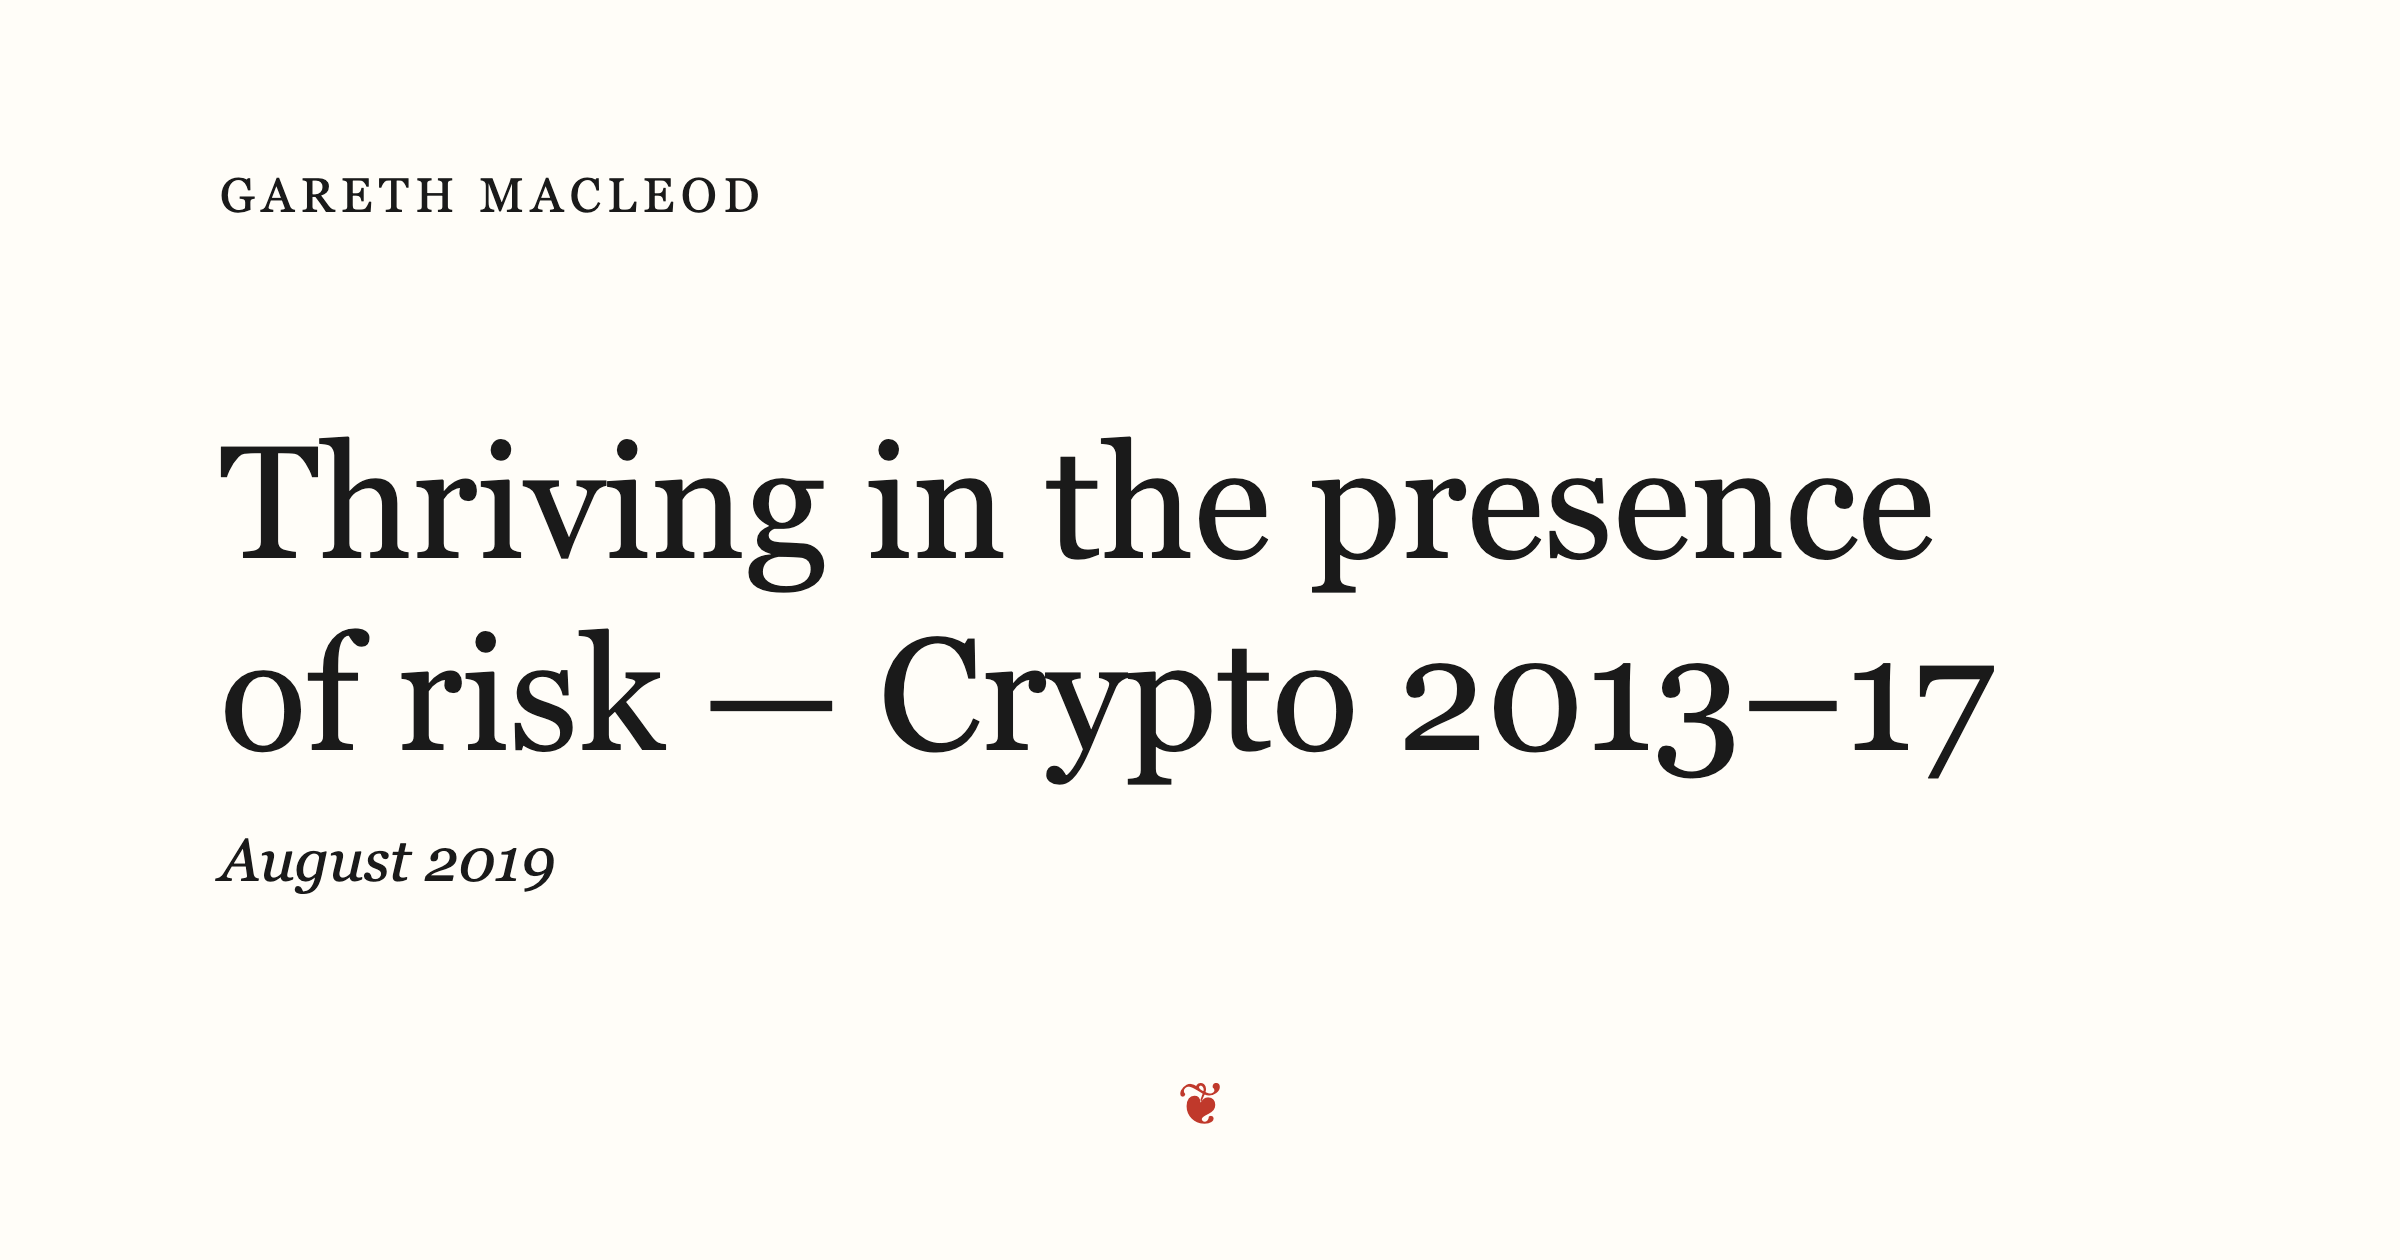
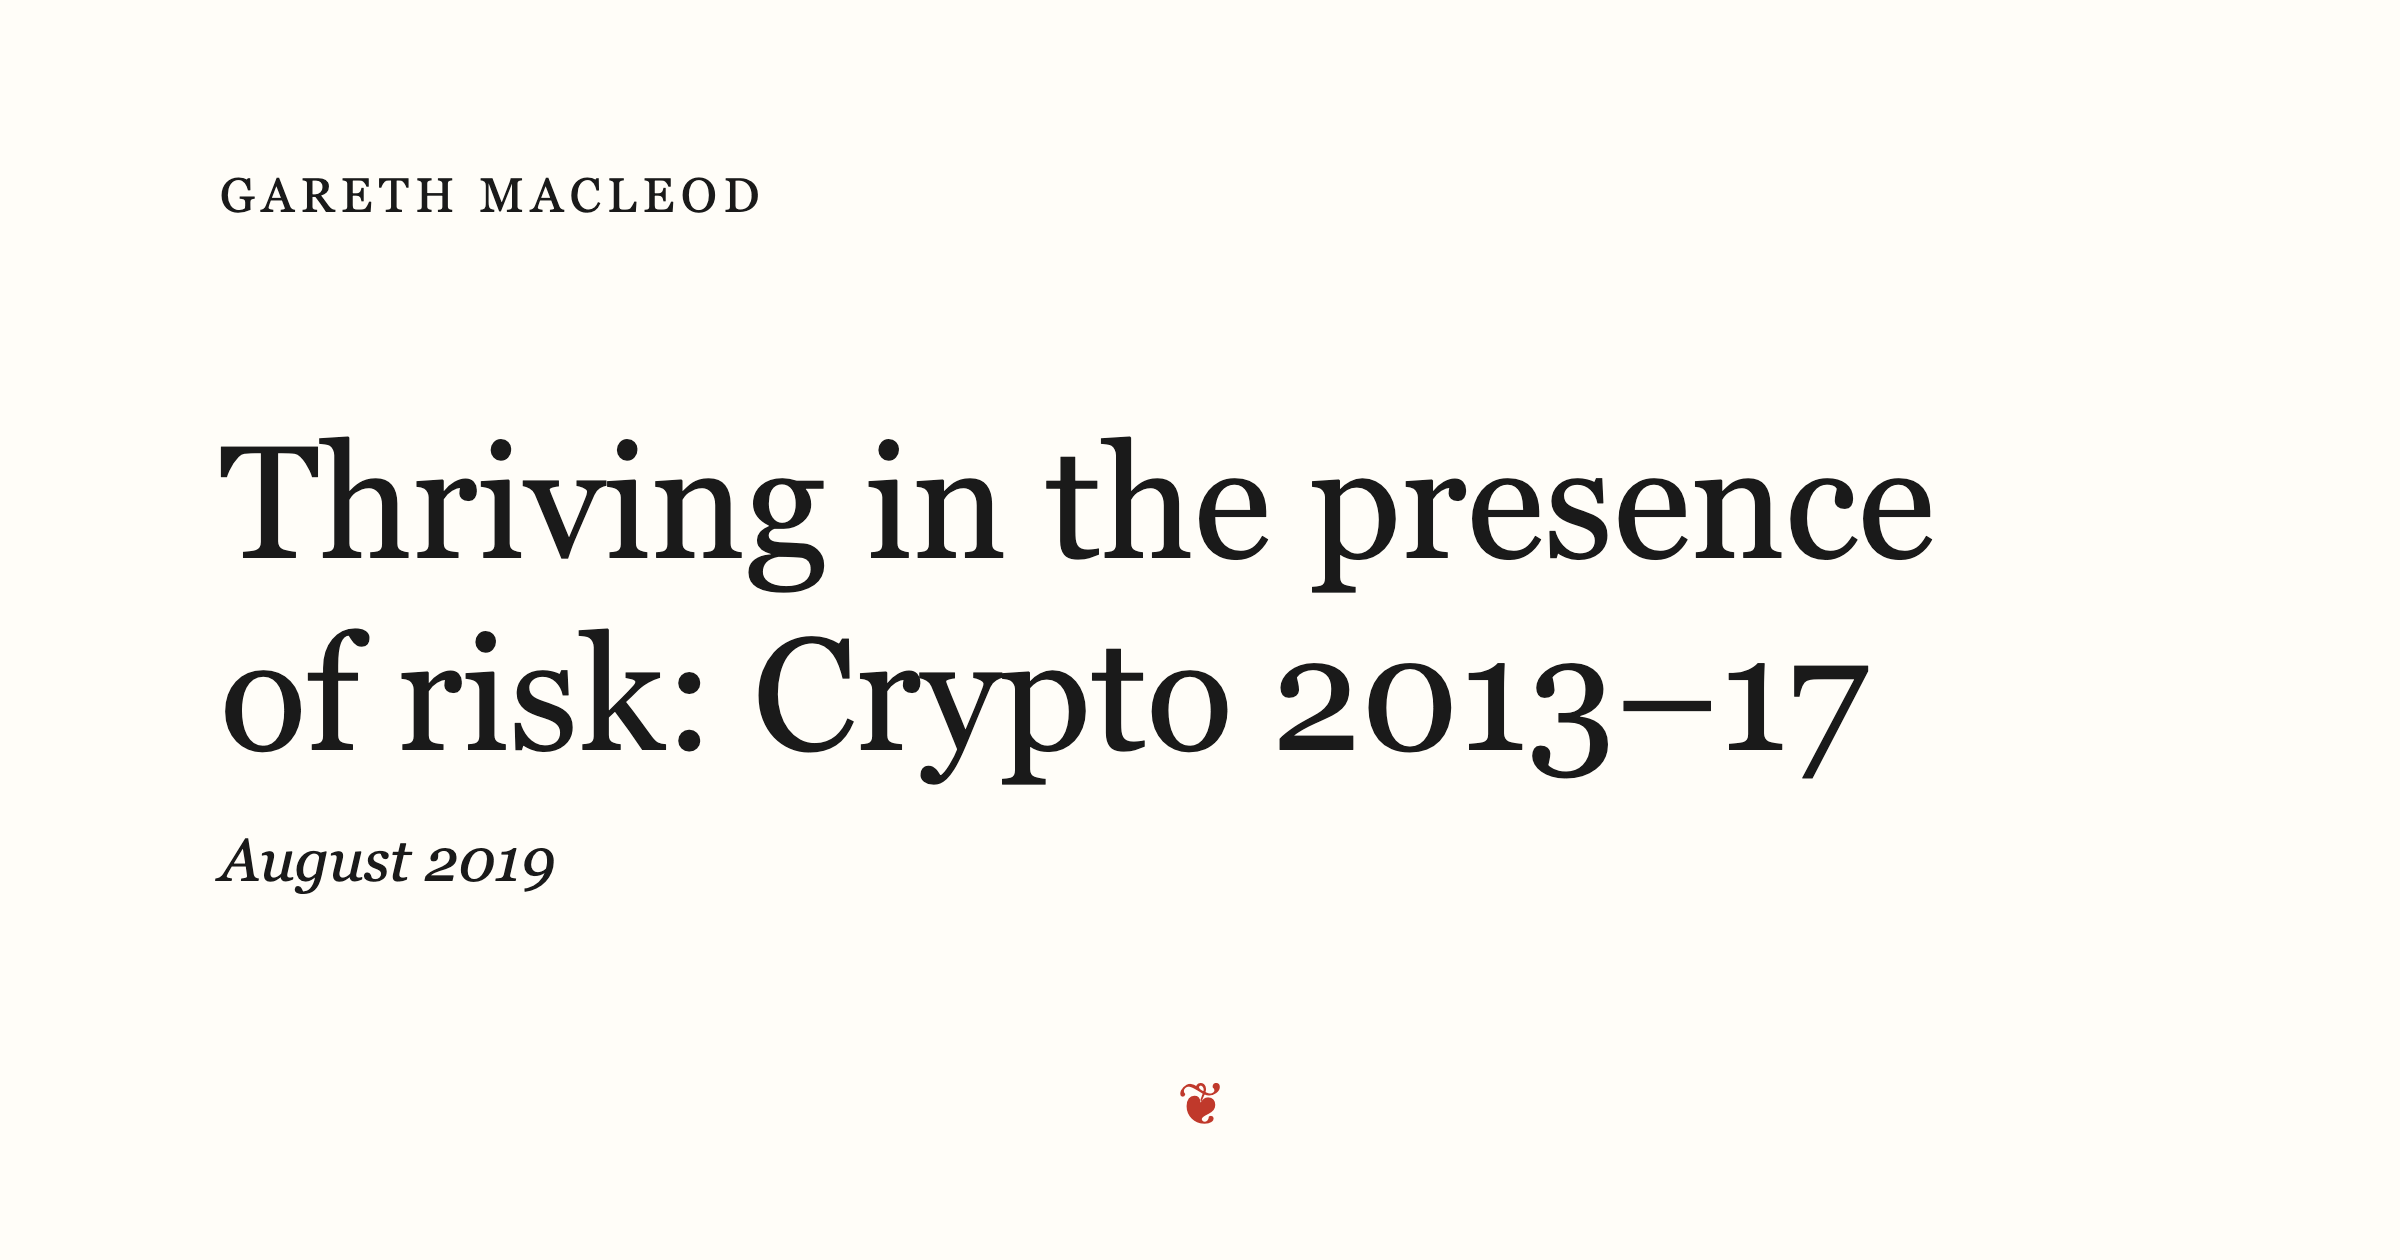
Use a colon before the crypto risk post subtitle (#38)
* Use a colon before the crypto risk post subtitle

* Render updated social previews on macOS

* Make generated public previews retrievable from the read-only render job

* Add regenerated social previews and remove the temporary render workflow

Changed region(s): [[0.2812, 0.4952, 0.8438, 0.619]]

diff --git a/app/writing/surviving-five-years-in-the-most-dangerous-market/page.tsx b/app/writing/surviving-five-years-in-the-most-dangerous-market/page.tsx
@@ -3,7 +3,7 @@ import { postMetadata } from '@/lib/postMetadata';
 
 export const metadata = postMetadata({
   slug: 'surviving-five-years-in-the-most-dangerous-market',
-  title: 'Thriving in the presence of risk — Crypto 2013–17',
+  title: 'Thriving in the presence of risk: Crypto 2013–17',
   description:
     'In early crypto the half-life of a startup was six months. How Tinker survived five years: focus on your fears and make them specific.',
 });
@@ -21,7 +21,7 @@ export default function SurvivingFiveYearsPost() {
 
       <main>
         <h1 className="mt-0 mb-1 text-[1.45rem] leading-[1.25] text-balance">
-          Thriving in the presence of risk — Crypto 2013–17
+          Thriving in the presence of risk: Crypto 2013–17
         </h1>
         <p className="m-0 italic">August 2019</p>
 

diff --git a/app/page.tsx b/app/page.tsx
@@ -56,7 +56,7 @@ export default function Home() {
             </li>
             <li className="mb-3 flex justify-between items-baseline gap-6">
               <Link href="/writing/surviving-five-years-in-the-most-dangerous-market" className="flex-1">
-                Thriving in the presence of risk — Crypto 2013–17
+                Thriving in the presence of risk: Crypto 2013–17
               </Link>
               <span className="shrink-0">Aug 2019</span>
             </li>
